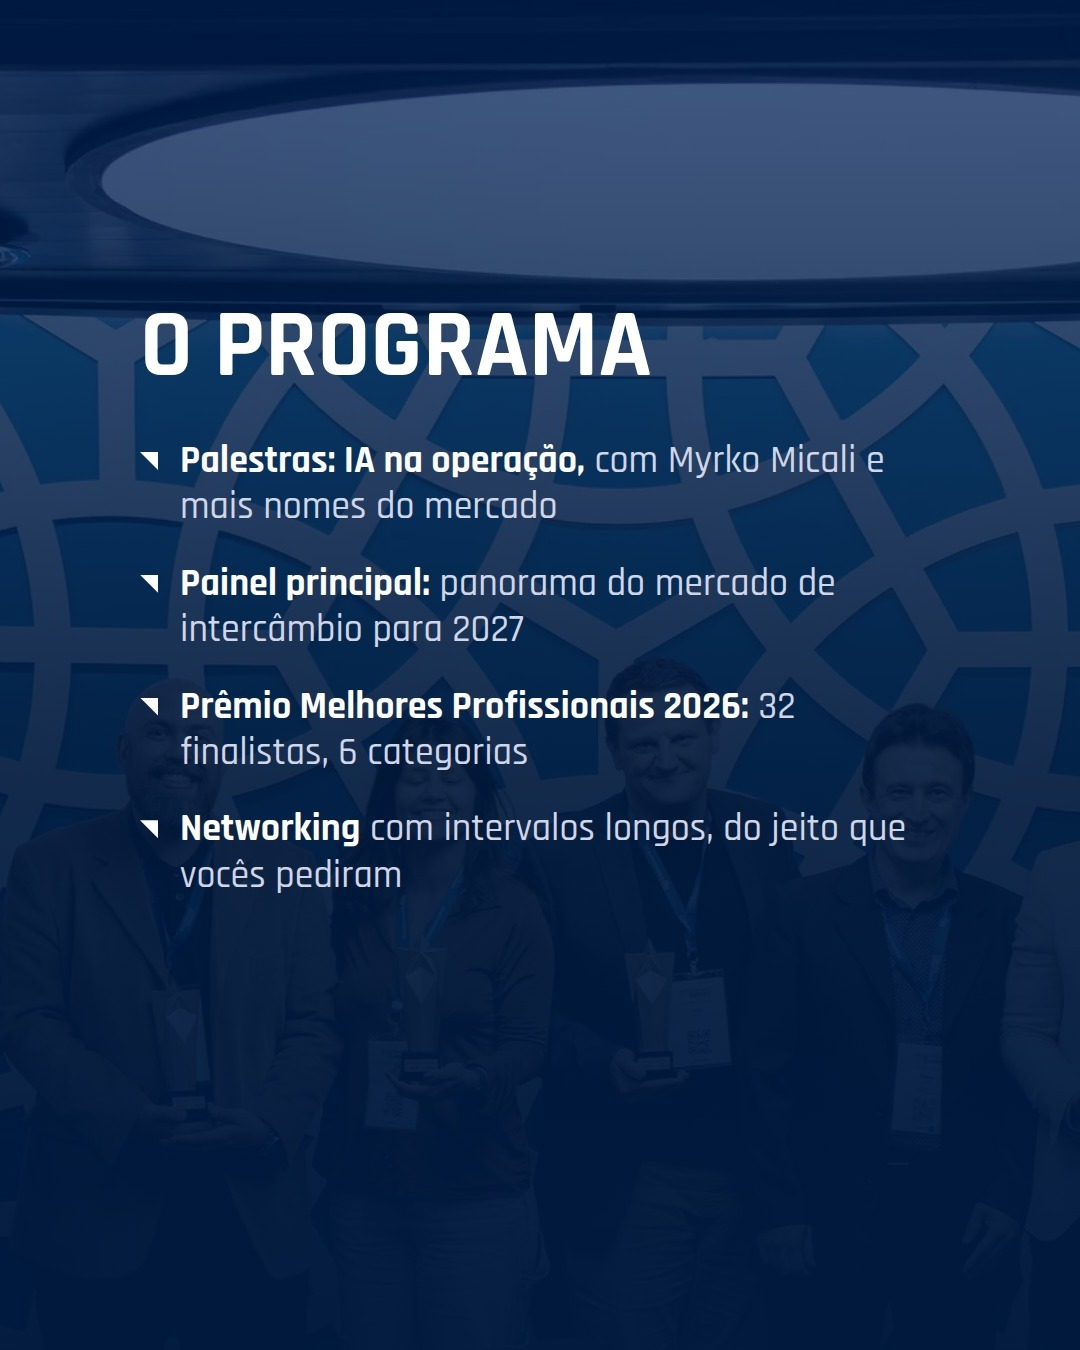
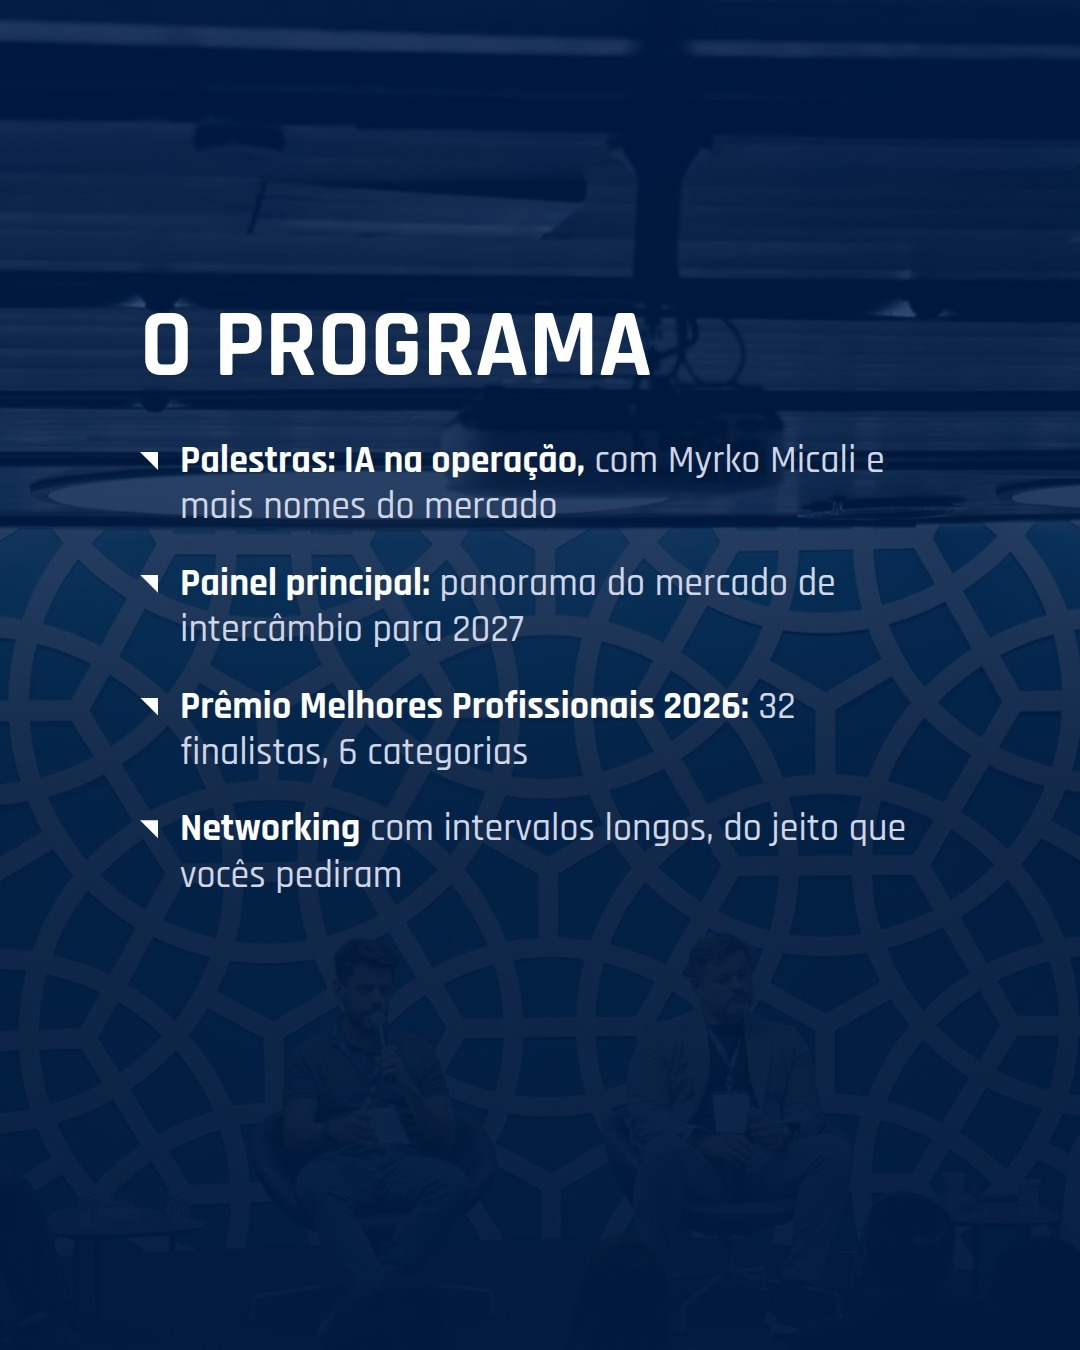
Panorama fixado: fundo trocado para foto do painel (Intercambio Summit 6-4)
- Nova foto de evento processada: painel-plateia-{2400,1600,900}.webp
- pinado-panorama.html usa painel-plateia-2400.webp (object-position: center top)
- Panorama 3240x1350 e as 3 fatias re-renderizados

Claude-Session: https://claude.ai/code/session_01K1jUSLEfcAN8o76QZJPw2m

diff --git a/criativos/templates/pinado-panorama.html b/criativos/templates/pinado-panorama.html
@@ -79,7 +79,7 @@
 </head>
 <body>
 <div class="canvas pano">
-  <div class="bg-foto"><img src="../../site/assets/img/eventos/premiados-2400.webp" alt="" style="object-position:center top;"></div>
+  <div class="bg-foto"><img src="../../site/assets/img/eventos/painel-plateia-2400.webp" alt="" style="object-position:center top;"></div>
   <div class="plano-45"></div>
   <div class="canto-45"></div>
 
